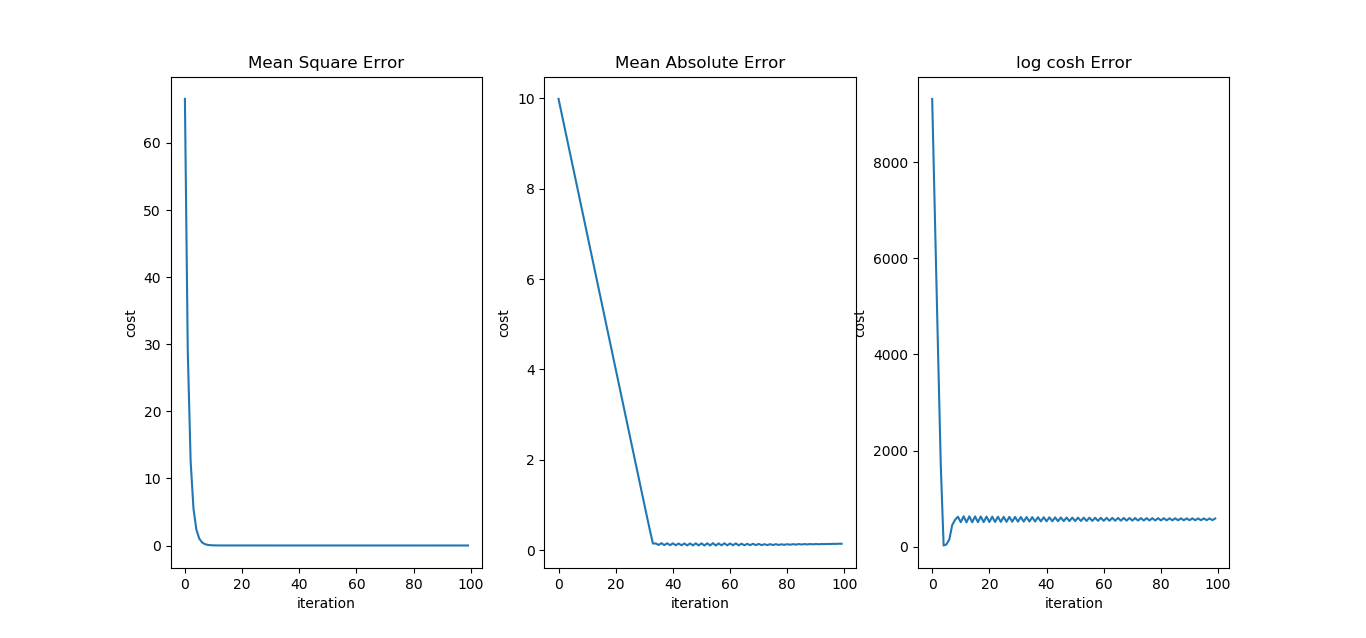
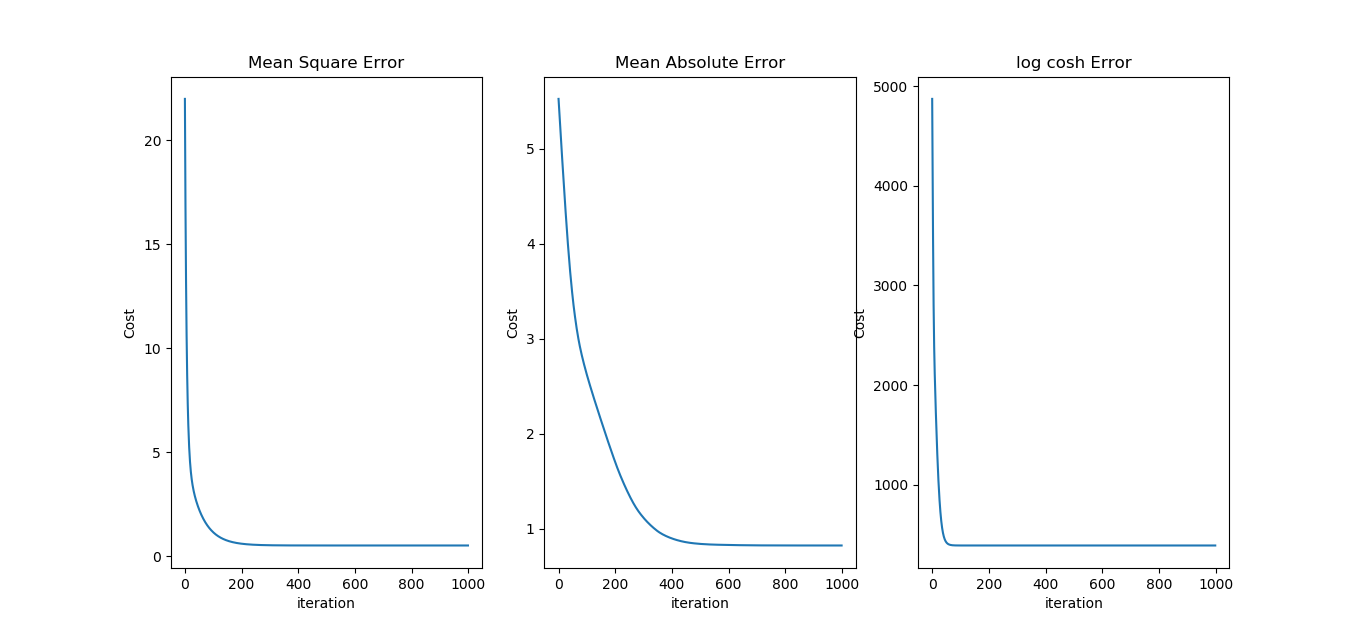
finally done HW_9

diff --git a/SMAI/HW_9/1.py b/SMAI/HW_9/1.py
@@ -1,10 +1,11 @@
 import numpy as np
 from matplotlib import pyplot as plt
+from mpl_toolkits import mplot3d
 
-x = np.array([i for i in range(1000)])
+x = np.array([i for i in range(-500,500)])
 x=x/100
-y = np.array([2*i for i in x])
-error = np.random.normal(0,0.1,1000)
+y = np.array([2*i+3 for i in x])
+error = np.random.normal(0,1,1000)
 y = y + error
 
 fig1 = plt.figure()
@@ -51,7 +52,7 @@ class GD:
                 s2 += 1
             else :
                 s1 -= x[j]
-                s1 -= 1
+                s2 -= 1
         return s1/1000,s2/1000
 
     def dev_LCE(self):
@@ -61,7 +62,7 @@ class GD:
             s2 += np.sinh(self.t1 * x[j] + self.t2 - y[j])/np.cosh(self.t1 * x[j] + self.t2 - y[j])
         return s1,s2
 
-    def gradient_descent(self,costfunc,devfunc,n=0.01,iterations=100):
+    def gradient_descent(self,costfunc,devfunc,n=0.01,iterations=1000):
         costs = []
         t1s = []
         t2s = []
@@ -76,33 +77,70 @@ class GD:
         print(self.t1,self.t2)
         return costs,t1s,t2s
 
+def cost_MSE1(t1,t2):
+    cost = 0
+    for i in range(len(x)):
+        cost += np.square(t1 * x[i] + t2 - y[i])
+    return cost/2000
+
+def cost_MAE1(t1,t2):
+    cost = 0
+    for i in range(len(x)):
+        cost += np.absolute(t1 * x[i] + t2 - y[i])
+    return cost/1000
+
+def cost_LCE1(t1,t2):
+    cost = 0
+    for j in range(len(x)):
+        cost += np.log(np.cosh(t1 * x[j] + t2 - y[j]))
+    return cost
+
 if __name__ == "__main__":
     fig2 = plt.figure()
-    fig3 = plt.figure()
 
-    p21 = fig2.add_subplot(131,title = 'Mean Square Error',xlabel = 'iteration',ylabel='Lost')
-    p31 = fig3.add_subplot(131,title = 'Mean Square Error',xlabel = 'iteration',ylabel='Loss')
+    p21 = fig2.add_subplot(131,title = 'Mean Square Error',xlabel = 'iteration',ylabel='Cost')
     MSEobj = GD()
     MSEcosts,MSEt1s,MSEt2s = MSEobj.gradient_descent(MSEobj.cost_MSE,MSEobj.dev_MSE)
     p21.plot(MSEcosts)
-    p31.plot(MSEt1s)
-    p31.plot(MSEt2s)
-    
-    p22 = fig2.add_subplot(132,title = 'Mean Absolute Error',xlabel = 'iteration',ylabel='Loss')
-    p32 = fig3.add_subplot(132,title = 'Mean Absolute Error',xlabel = 'iteration',ylabel='Loss')
+
+    p22 = fig2.add_subplot(132,title = 'Mean Absolute Error',xlabel = 'iteration',ylabel='Cost')
     MAEobj = GD()
     MAEcosts,MAEt1s,MAEt2s = MAEobj.gradient_descent(MAEobj.cost_MAE,MAEobj.dev_MAE)
     p22.plot(MAEcosts)
-    p32.plot(MAEt1s)
-    p32.plot(MAEt2s)
-
-
-    p23 = fig2.add_subplot(133,title = 'log cosh Error',xlabel = 'iteration',ylabel='Loss')
-    p33 = fig3.add_subplot(133,title = 'log cosh Error',xlabel = 'iteration',ylabel='Loss')
+    
+    p23 = fig2.add_subplot(133,title = 'log cosh Error',xlabel = 'iteration',ylabel='Cost')
     LCEobj = GD()
     LCEcosts,LCEt1s,LCEt2s = LCEobj.gradient_descent(LCEobj.cost_LCE,LCEobj.dev_LCE,n=0.0001)
     p23.plot(LCEcosts)
-    p33.plot(LCEt1s)
-    p33.plot(LCEt2s)
+    
+    fig3 = plt.figure()
+    xsp = np.linspace(-100,100,100)
+    ysp = np.linspace(-100,100,100)
+    X, Y = np.meshgrid(xsp, ysp)
+
+    ax = fig3.add_subplot(131,projection='3d')
+    Z = cost_MSE1(X,Y)    
+    ax.view_init(10,45)
+    ax.set_xlabel('theta1')
+    ax.set_ylabel('theta2')
+    ax.set_zlabel('loss')
+    ax.plot_surface(X, Y, Z,rstride=1, cstride=1, cmap='viridis', edgecolor='none')
+
+    ax = fig3.add_subplot(132,projection='3d')
+    Z = cost_MAE1(X,Y)
+    ax.view_init(10,45)
+    ax.set_xlabel('theta1')
+    ax.set_ylabel('theta2')
+    ax.set_zlabel('loss')
+
+    ax.plot_surface(X, Y, Z,rstride=1, cstride=1, cmap='viridis', edgecolor='none')
+
+    ax = fig3.add_subplot(133,projection='3d')
+    Z = cost_LCE1(X,Y)
+    ax.view_init(10,45)
+    ax.set_xlabel('theta1')
+    ax.set_ylabel('theta2')
+    ax.set_zlabel('loss')
+    ax.plot_surface(X, Y, Z,rstride=1, cstride=1, cmap='viridis', edgecolor='none')
 
     plt.show()

diff --git a/SMAI/HW_9/2.py b/SMAI/HW_9/2.py
@@ -3,16 +3,23 @@ from matplotlib import pyplot as plt
 
 fig1 = plt.figure()
 
-def gradient_descent(x,n=0.1,iterations=5,limit=0):
+def gradient_descent(x,n=0.1,iterations=5):
     xs = [-2]
     ys = [4]
     for i in range(iterations):
         x -= n * 2 * x  # dy/dx of x^2 is 2x
         xs.append(x)
         ys.append(x*x)
-        if x*x < limit:
-            return i    
     return xs,ys
+
+def gradient_descent_iter(x,n=0.1,limit=0.1):
+    i=0
+    while True:
+        x -= n * 2 * x 
+        i+=1 
+        if x*x<limit:
+            return i
+    
 
 
 if __name__ == "__main__":
@@ -39,8 +46,8 @@ if __name__ == "__main__":
     
     fig3 = plt.figure()
     iterations = []
-    for i in range(10,100000,100):
-        iterations.append(gradient_descent(x=-2,n=0.4,iterations=100000,limit=1/i))
+    for i in range(1000,1,-1):
+        iterations.append(gradient_descent_iter(x=-2,n=0.1,limit=i/1000))
     p6 = fig3.add_subplot(111,title='',xlabel='1/convergance criteria',ylabel='iterations')
     p6.plot(iterations)
     plt.show()
